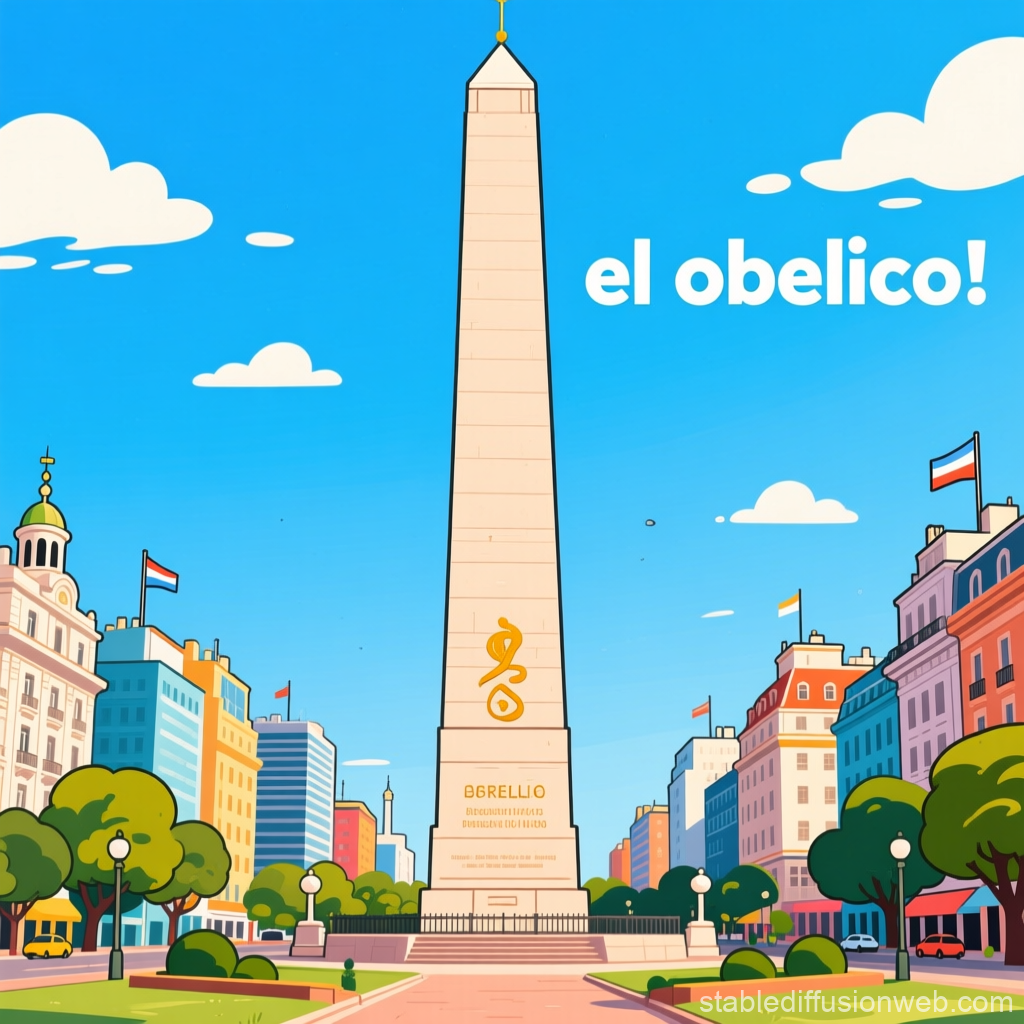
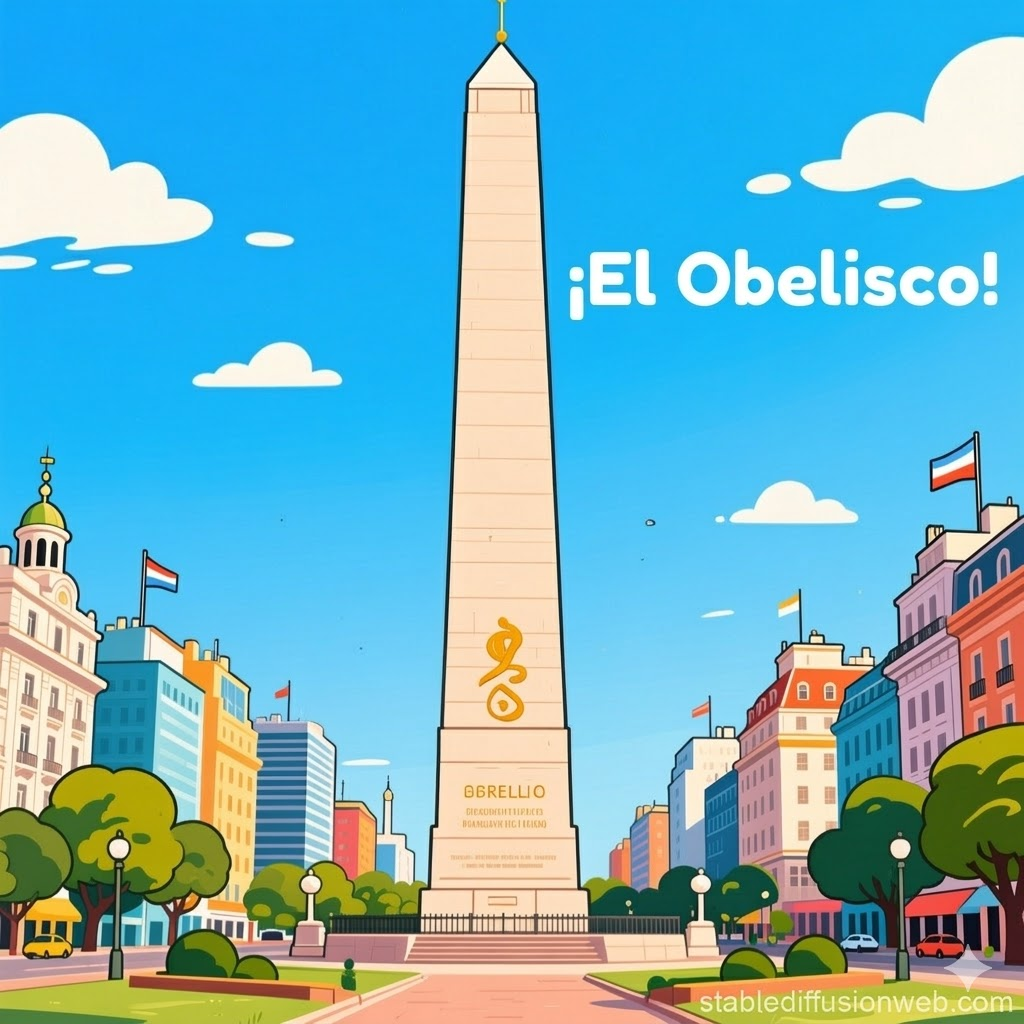
Agrega galeria a app adulto. Agrega carga de contenido dinamico a modo adulto

diff --git a/components/CategorySlider.tsx b/components/CategorySlider.tsx
@@ -2,11 +2,13 @@
 
 import { useState, useRef, useEffect, useCallback } from "react";
 import gsap from "gsap";
-import { DetailView, GalleryItem, Category } from "@/components/DetailView";
+import { DetailView } from "@/components/DetailView";
+import { Category } from "@/types/content";
+import { useContent } from "@/context/ContentContext"
 
 
 // ─── Mock data ────────────────────────────────────────────────────────────────
-
+/*
 const MOCK_CATEGORIES: Category[] = [
     {
         id: "obelisco",
@@ -95,11 +97,14 @@ const MOCK_CATEGORIES: Category[] = [
             },
         ],
     },
-];
+];*/
 
 // ─── Componente ───────────────────────────────────────────────────────────────
 
 export function CategorySlider({ onCategorySelect }: { onCategorySelect?: (id: string) => void }) {
+    const { content, isLoading } = useContent();
+    const CATEGORIES_AND_DATA = content.categories;
+
     const [currentIndex, setCurrentIndex] = useState(0);
     const [selectedCategory, setSelectedCategory] = useState<Category | null>(null);
     const [currentItemIndex, setCurrentItemIndex] = useState(0);
@@ -144,7 +149,7 @@ export function CategorySlider({ onCategorySelect }: { onCategorySelect?: (id: s
     };
 
     const handleNext = () => {
-        if (currentIndex < MOCK_CATEGORIES.length - 1) navigateTo(currentIndex + 1);
+        if (currentIndex < CATEGORIES_AND_DATA.length - 1) navigateTo(currentIndex + 1);
     };
 
     // ── Drag / Swipe ──────────────────────────────────────────────────────────
@@ -179,7 +184,23 @@ export function CategorySlider({ onCategorySelect }: { onCategorySelect?: (id: s
         });
     };
 
-    const category = MOCK_CATEGORIES[currentIndex];
+    // ── Mientras carga ────────────────────────────────────────
+    if (isLoading) {
+        return (
+        <div style={{
+            position: "fixed",
+            inset: 0,
+            backgroundColor: "#111",
+            display: "flex",
+            alignItems: "center",
+            justifyContent: "center",
+        }}>
+            <p style={{ color: "#555", letterSpacing: 2 }}>Cargando...</p>
+        </div>
+        );
+    }
+
+    const category = CATEGORIES_AND_DATA[currentIndex];
 
     // ── Vista detalle ─────────────────────────────────────────────────────────
     if (selectedCategory) {
@@ -240,7 +261,7 @@ export function CategorySlider({ onCategorySelect }: { onCategorySelect?: (id: s
                 }}
             >
                 <p style={{ fontSize: 13, letterSpacing: 3, color: "#aaa", textTransform: "uppercase", marginBottom: 8 }}>
-                    {currentIndex + 1} / {MOCK_CATEGORIES.length}
+                    {currentIndex + 1} / {CATEGORIES_AND_DATA.length}
                 </p>
                 <h2 style={{ fontSize: 56, fontWeight: 700, marginBottom: 12, lineHeight: 1 }}>
                     {category.title}
@@ -279,19 +300,19 @@ export function CategorySlider({ onCategorySelect }: { onCategorySelect?: (id: s
             {/* Flecha derecha */}
             <button
                 onClick={handleNext}
-                disabled={currentIndex === MOCK_CATEGORIES.length - 1}
+                disabled={currentIndex === CATEGORIES_AND_DATA.length - 1}
                 style={{
                     position: "absolute",
                     right: 24,
                     top: "50%",
                     transform: "translateY(-50%)",
-                    background: currentIndex === MOCK_CATEGORIES.length - 1 ? "rgba(255,255,255,0.05)" : "rgba(255,255,255,0.15)",
+                    background: currentIndex === CATEGORIES_AND_DATA.length - 1 ? "rgba(255,255,255,0.05)" : "rgba(255,255,255,0.15)",
                     border: "none",
-                    color: currentIndex === MOCK_CATEGORIES.length - 1 ? "#444" : "white",
+                    color: currentIndex === CATEGORIES_AND_DATA.length - 1 ? "#444" : "white",
                     width: 48,
                     height: 48,
                     borderRadius: "50%",
-                    cursor: currentIndex === MOCK_CATEGORIES.length - 1 ? "not-allowed" : "pointer",
+                    cursor: currentIndex === CATEGORIES_AND_DATA.length - 1 ? "not-allowed" : "pointer",
                     fontSize: 20,
                     display: "flex",
                     alignItems: "center",
@@ -311,7 +332,7 @@ export function CategorySlider({ onCategorySelect }: { onCategorySelect?: (id: s
                 display: "flex",
                 gap: 8,
             }}>
-                {MOCK_CATEGORIES.map((_, i) => (
+                {CATEGORIES_AND_DATA.map((_, i) => (
                     <div
                         key={i}
                         onClick={() => navigateTo(i)}

diff --git a/context/ContentContext.tsx b/context/ContentContext.tsx
@@ -1,0 +1,90 @@
+"use client";
+
+import { createContext, useContext, useEffect, useState, useCallback } from "react";
+import { AppContent } from "@/types/content";
+
+// ─── Fallback default ─────────────────────────────────────────────────────────
+
+const DEFAULT_CONTENT: AppContent = {
+  categories: [],
+};
+
+// ─── Tipos del Context ────────────────────────────────────────────────────────
+
+interface ContentContextValue {
+  content: AppContent;
+  isLoading: boolean;
+  error: string | null;
+  refresh: () => Promise<void>;
+}
+
+// ─── Context ──────────────────────────────────────────────────────────────────
+
+const ContentContext = createContext<ContentContextValue | null>(null);
+
+// ─── Provider ─────────────────────────────────────────────────────────────────
+
+export function ContentProvider({ children }: { children: React.ReactNode }) {
+  const [content, setContent] = useState<AppContent>(DEFAULT_CONTENT);
+  const [isLoading, setIsLoading] = useState(true);
+  const [error, setError] = useState<string | null>(null);
+
+  const loadContent = useCallback(async () => {
+    setIsLoading(true);
+    setError(null);
+
+    console.log(`BUSCANDO CONTENIDO CONTEXTPROVIDER..`)
+
+    // CAPA 1: intentar fetch al servidor NestJS
+    try {
+      const response = await fetch("http://localhost:3001/api/person-detector/content");
+      if (!response.ok) throw new Error(`NestJS respondió con status ${response.status}`);
+      const data: AppContent = await response.json();
+      console.log("OK, CONTENT cargado desde NestJS");
+      setContent(data);
+      setIsLoading(false);
+      return;
+    } catch (nestError) {
+      console.warn("NestJS no disponible, intentando JSON local...", nestError);
+    }
+
+    // CAPA 2: intentar leer el JSON local via API Route de Next
+    try {
+      const response = await fetch("/api/content");
+      if (!response.ok) throw new Error(`API Route respondió con status ${response.status}`);
+      const data: AppContent = await response.json();
+      console.log("CONTENT cargado desde JSON local");
+      setContent(data);
+      setIsLoading(false);
+      return;
+    } catch (localError) {
+      console.warn("JSON local no disponible, usando content default...", localError);
+    }
+
+    // CAPA 3: usar content default
+    console.warn("⚠ Usando content default vacío");
+    setError("No se pudo cargar el contenido externo.");
+    setContent(DEFAULT_CONTENT);
+    setIsLoading(false);
+  }, []);
+
+  useEffect(() => {
+    loadContent();
+  }, [loadContent]);
+
+  return (
+    <ContentContext.Provider value={{ content, isLoading, error, refresh: loadContent }}>
+      {children}
+    </ContentContext.Provider>
+  );
+}
+
+// ─── Hook de consumo ──────────────────────────────────────────────────────────
+
+export function useContent(): ContentContextValue {
+  const context = useContext(ContentContext);
+  if (!context) {
+    throw new Error("useContent debe usarse dentro de un <ContentProvider>");
+  }
+  return context;
+}

diff --git a/components/DetailView.tsx b/components/DetailView.tsx
@@ -3,29 +3,9 @@
 import { useEffect, useRef, useState } from "react";
 import gsap from "gsap";
 import { ImageGallery } from "./ImageGallery";
+import { Category, GalleryItem } from "../types/content";
 
 // ─── Tipos ────────────────────────────────────────────────────────────────────
-export interface GalleryImage {
-    url: string;
-    caption?: string;
-}
-
-export interface GalleryItem {
-  id: number;
-  title: string;
-  description: string;
-  tags: string[];
-  mainImage: string;
-  thumbImage?: string;
-  images?: GalleryImage[];
-}
-
-export interface Category {
-  id: string;
-  title: string;
-  coverImage: string;
-  items: GalleryItem[];
-}
 
 interface DetailViewProps {
   category: Category;

diff --git a/app/page.tsx b/app/page.tsx
@@ -238,7 +238,7 @@ export default function Home() {
       )}
 
       {/* Selector de categorías (solo Mac en modo adult o adult-with-child) */}
-      {APP_MODE === "mac" && (detectionState === "adult" || globalState === "adult-with-child") && (
+      {/*APP_MODE === "mac" && (detectionState === "adult" || globalState === "adult-with-child") && (
         <div style={{ display: "flex", gap: 16, marginTop: 24 }}>
           {PUZZLE_CATEGORIES.map(cat => (
             <button
@@ -259,7 +259,7 @@ export default function Home() {
             </button>
           ))}
         </div>
-      )}
+      )*/}
 
       {/*<p>Estado: {detectionState}</p>*/}
       {/*APP_MODE === "mac" && (

diff --git a/types/content.ts b/types/content.ts
@@ -1,0 +1,27 @@
+// ─── Tipos de contenido ───────────────────────────────────────────────────────
+
+export interface GalleryImage {
+    url: string;
+    caption?: string;
+}
+
+export interface GalleryItem {
+    id: number;
+    title: string;
+    description: string;
+    tags: string[];
+    mainImage: string;
+    thumbImage?: string;
+    images?: GalleryImage[];
+}
+
+export interface Category {
+    id: string;
+    title: string;
+    coverImage: string;
+    items: GalleryItem[];
+}
+
+export interface AppContent {
+    categories: Category[];
+}

diff --git a/app/api/content/route.ts b/app/api/content/route.ts
@@ -1,0 +1,18 @@
+import { NextResponse } from "next/server";
+import { readFile } from "fs/promises";
+import path from "path";
+
+export async function GET() {
+  try {
+    const filePath = path.join(process.cwd(), "config", "app-content.json");
+    const fileContent = await readFile(filePath, "utf-8");
+    const data = JSON.parse(fileContent);
+    return NextResponse.json(data);
+  } catch (error) {
+    console.error(" X Error leyendo app-content.json:", error);
+    return NextResponse.json(
+      { error: "No se pudo leer el archivo de contenido" },
+      { status: 500 }
+    );
+  }
+}

diff --git a/app/layout.tsx b/app/layout.tsx
@@ -1,5 +1,6 @@
 import type { Metadata } from "next";
 import { ConfigProvider } from "@/context/ConfigContext";
+import { ContentProvider } from "@/context/ContentContext";
 import "./globals.css";
 
 export const metadata: Metadata = {
@@ -12,7 +13,9 @@ export default function RootLayout({ children }: { children: React.ReactNode }) 
     <html lang="es">
       <body>
         <ConfigProvider>
-          {children}
+          <ContentProvider>
+            {children}
+          </ContentProvider>
         </ConfigProvider>
       </body>
     </html>
